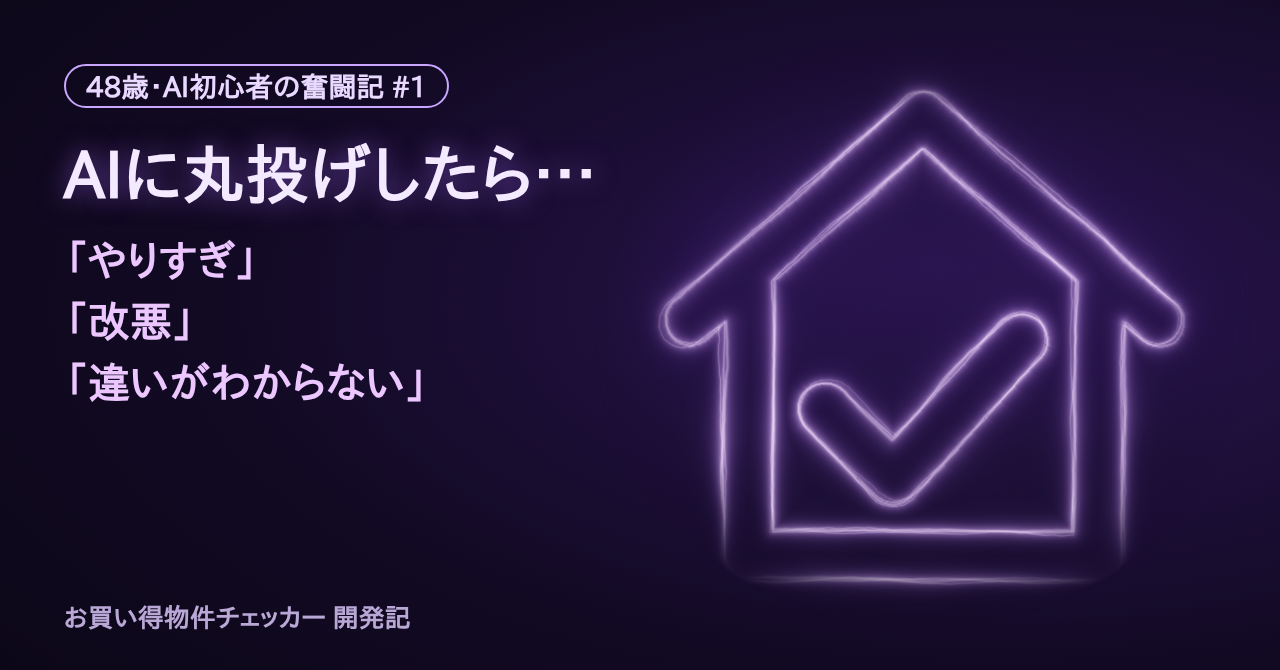
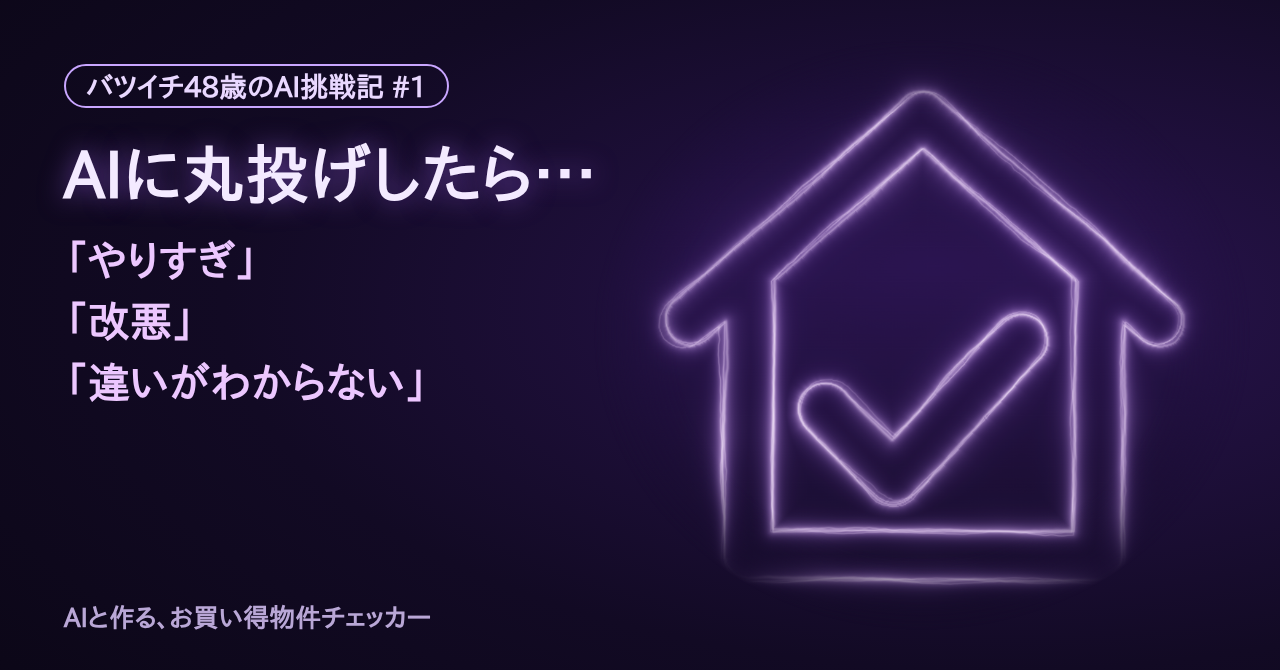
note 連載の名前を「バツイチ48歳のAI挑戦記」に（題名・表紙・自己紹介）
Claude-Session: https://claude.ai/code/session_01STjNbC2qwayR18mFLRyYVG

Changed region(s): [[0.0312, 0.8955, 0.3438, 0.9552], [0.0625, 0.0896, 0.2812, 0.1493]]

diff --git a/ops/note/README.md b/ops/note/README.md
@@ -1,4 +1,6 @@
-# note 連載「AIと作る、お買い得物件チェッカー奮闘記」
+# note 連載「バツイチ48歳のAI挑戦記」（旧案: AIと作る、お買い得物件チェッカー奮闘記）
+
+題名の形: 【バツイチ48歳のAI挑戦記 #回】その回の中身（のぼるさん 2026-11-04）
 
 決定: 2026-11-03 のぼるさん「アプリを作って収益化を目指す奮闘記を note に自動で書いて、アプリの集客と note の収入も目指したい」
 
@@ -38,7 +40,7 @@
 
 ## 書き方のルール
 - **事実だけ**: 数字（誤差・訪問数・収益）は事実メモにあるものだけ使う。ない数字は書かない。収益は確定したものだけ。
-- 名前「のぼる」・年齢「48歳」・県名は書いてよい（のぼるさん 2026-11-03）。それ以外の個人のこと（買った値段・仕事・家族）は OK が出たものだけ。下書きでは【要確認】で囲む。
+- 名前「のぼる」・年齢「48歳」・「バツイチ」（のぼるさん 2026-11-04）・県名は書いてよい（のぼるさん 2026-11-03）。それ以外の個人のこと（買った値段・仕事・家族）は OK が出たものだけ。下書きでは【要確認】で囲む。
 - 地名は都道府県名まで（市区町村・町名は出さない）。
 - 文体: 「AI初心者の48歳がつまずいて、直していく」話を、面白おかしく。題名は読みたくなるもの（数字・意外性・失敗）にする。
 - 「AIと一緒に作っている」ことは隠さない（連載の売り）。

diff --git a/ops/journal/README.md b/ops/journal/README.md
@@ -4,5 +4,5 @@
 
 - 1日1ファイル `YYYY-MM-DD.md`。Claude Code が、その日の作業の終わりに書き足す。
 - 書くこと: やったこと／のぼるさんの言葉（そのまま引用。記事の一番おいしい材料）／失敗と直し方／数字（精度・訪問数・収益）／次にやること。
-- 書かないこと: パスワード・APIキー・メールアドレス、のぼるさんが OK していない個人のこと（OK 済み: 名前「のぼる」、48歳、山口県、自宅の購入価格 1,780万円と査定 803万円）。
+- 書かないこと: パスワード・APIキー・メールアドレス、のぼるさんが OK していない個人のこと（OK 済み: 名前「のぼる」、48歳、バツイチ、山口県、自宅の購入価格 1,780万円と査定 803万円）。
 - 使い道: `tools/note_facts.py` が前回の記事以降の日誌を「事実メモ」に入れる → note の下書き・SNS の告知文・ショート動画の台本案の材料になる。
